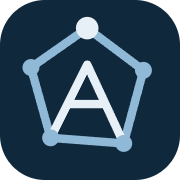
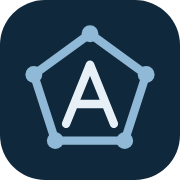
brand: use the regular-pentagon mark everywhere; refresh portal tagline
The DSH plugin already draws the regular pentagon. Apply the same
geometry to the shared Vue mark, all favicons, the wordmark, and
re-render favicon-32/apple-touch PNGs and the installer/tray ICO
from the SVG. Replace the portal landing headline and subline.

diff --git a/web/shared/src/BrandMark.vue b/web/shared/src/BrandMark.vue
@@ -11,24 +11,26 @@ withDefaults(defineProps<{ size?: number }>(), { size: 28 });
     aria-hidden="true"
   >
     <rect width="64" height="64" rx="16" fill="#10283b" />
+    <!-- Regular pentagon centred on (32,33), circumradius 21. -->
     <path
-      d="M31 10 51 25 44 51 18 49 11 24Z"
+      d="M32 12 51.97 26.51 44.34 49.99H19.66L12.03 26.51Z"
       fill="none"
       stroke="#8fb9d6"
       stroke-width="3"
       stroke-linejoin="round"
     />
     <path
-      d="m18 49 13-26 13 28M24 37h14"
+      d="M23.5 44 32 23l8.5 21M26.5 37h11"
       fill="none"
       stroke="#e8f0f7"
       stroke-width="3"
+      stroke-linecap="round"
       stroke-linejoin="round"
     />
-    <circle cx="31" cy="10" r="4" fill="#e8f0f7" />
-    <circle cx="51" cy="25" r="3" fill="#8fb9d6" />
-    <circle cx="44" cy="51" r="3" fill="#8fb9d6" />
-    <circle cx="18" cy="49" r="3" fill="#8fb9d6" />
-    <circle cx="11" cy="24" r="3" fill="#8fb9d6" />
+    <circle cx="32" cy="12" r="3" fill="#8fb9d6" />
+    <circle cx="51.97" cy="26.51" r="3" fill="#8fb9d6" />
+    <circle cx="44.34" cy="49.99" r="3" fill="#8fb9d6" />
+    <circle cx="19.66" cy="49.99" r="3" fill="#8fb9d6" />
+    <circle cx="12.03" cy="26.51" r="3" fill="#8fb9d6" />
   </svg>
 </template>

diff --git a/web/portal/src/views/LandingView.vue b/web/portal/src/views/LandingView.vue
@@ -8,14 +8,14 @@ const messages = {
   'zh-CN': {
     login: '登录',
     home: 'Auriga DSH 首页',
-    title: '团队的工作，在此汇合。',
-    sub: '团队共用的 DSH 云端工作台。连接云端与桌面，共享模型中转站。',
+    title: '一个团队，一套 AI 工作台。',
+    sub: '云端与桌面的 DSH 共用同一身份、模型与资源，在哪里都能接着干。',
   },
   en: {
     login: 'Sign in',
     home: 'Auriga DSH home',
-    title: 'Where your team’s work meets.',
-    sub: 'A shared DSH cloud workspace. Connect cloud and desktop with a team model relay.',
+    title: 'One team, one AI workspace.',
+    sub: 'Cloud and desktop DSH share one identity, one set of models and resources. Pick up where you left off, anywhere.',
   },
 };
 const copy = computed(() => messages[locale.value === 'en' ? 'en' : 'zh-CN']);

diff --git a/web/portal/src/views/LoginDownload.test.ts b/web/portal/src/views/LoginDownload.test.ts
@@ -29,7 +29,7 @@ it('公共产品首页显示公开版本与下载入口', async () => {
   await flushPromises();
   expect(view.text()).toContain('0.1.0');
   expect(view.text()).toContain('下载 Windows 版');
-  expect(view.get('h1').text()).toBe('团队的工作，在此汇合。');
+  expect(view.get('h1').text()).toBe('一个团队，一套 AI 工作台。');
   expect(
     view
       .find('figure, article, footer, .capabilities, .product-preview')
